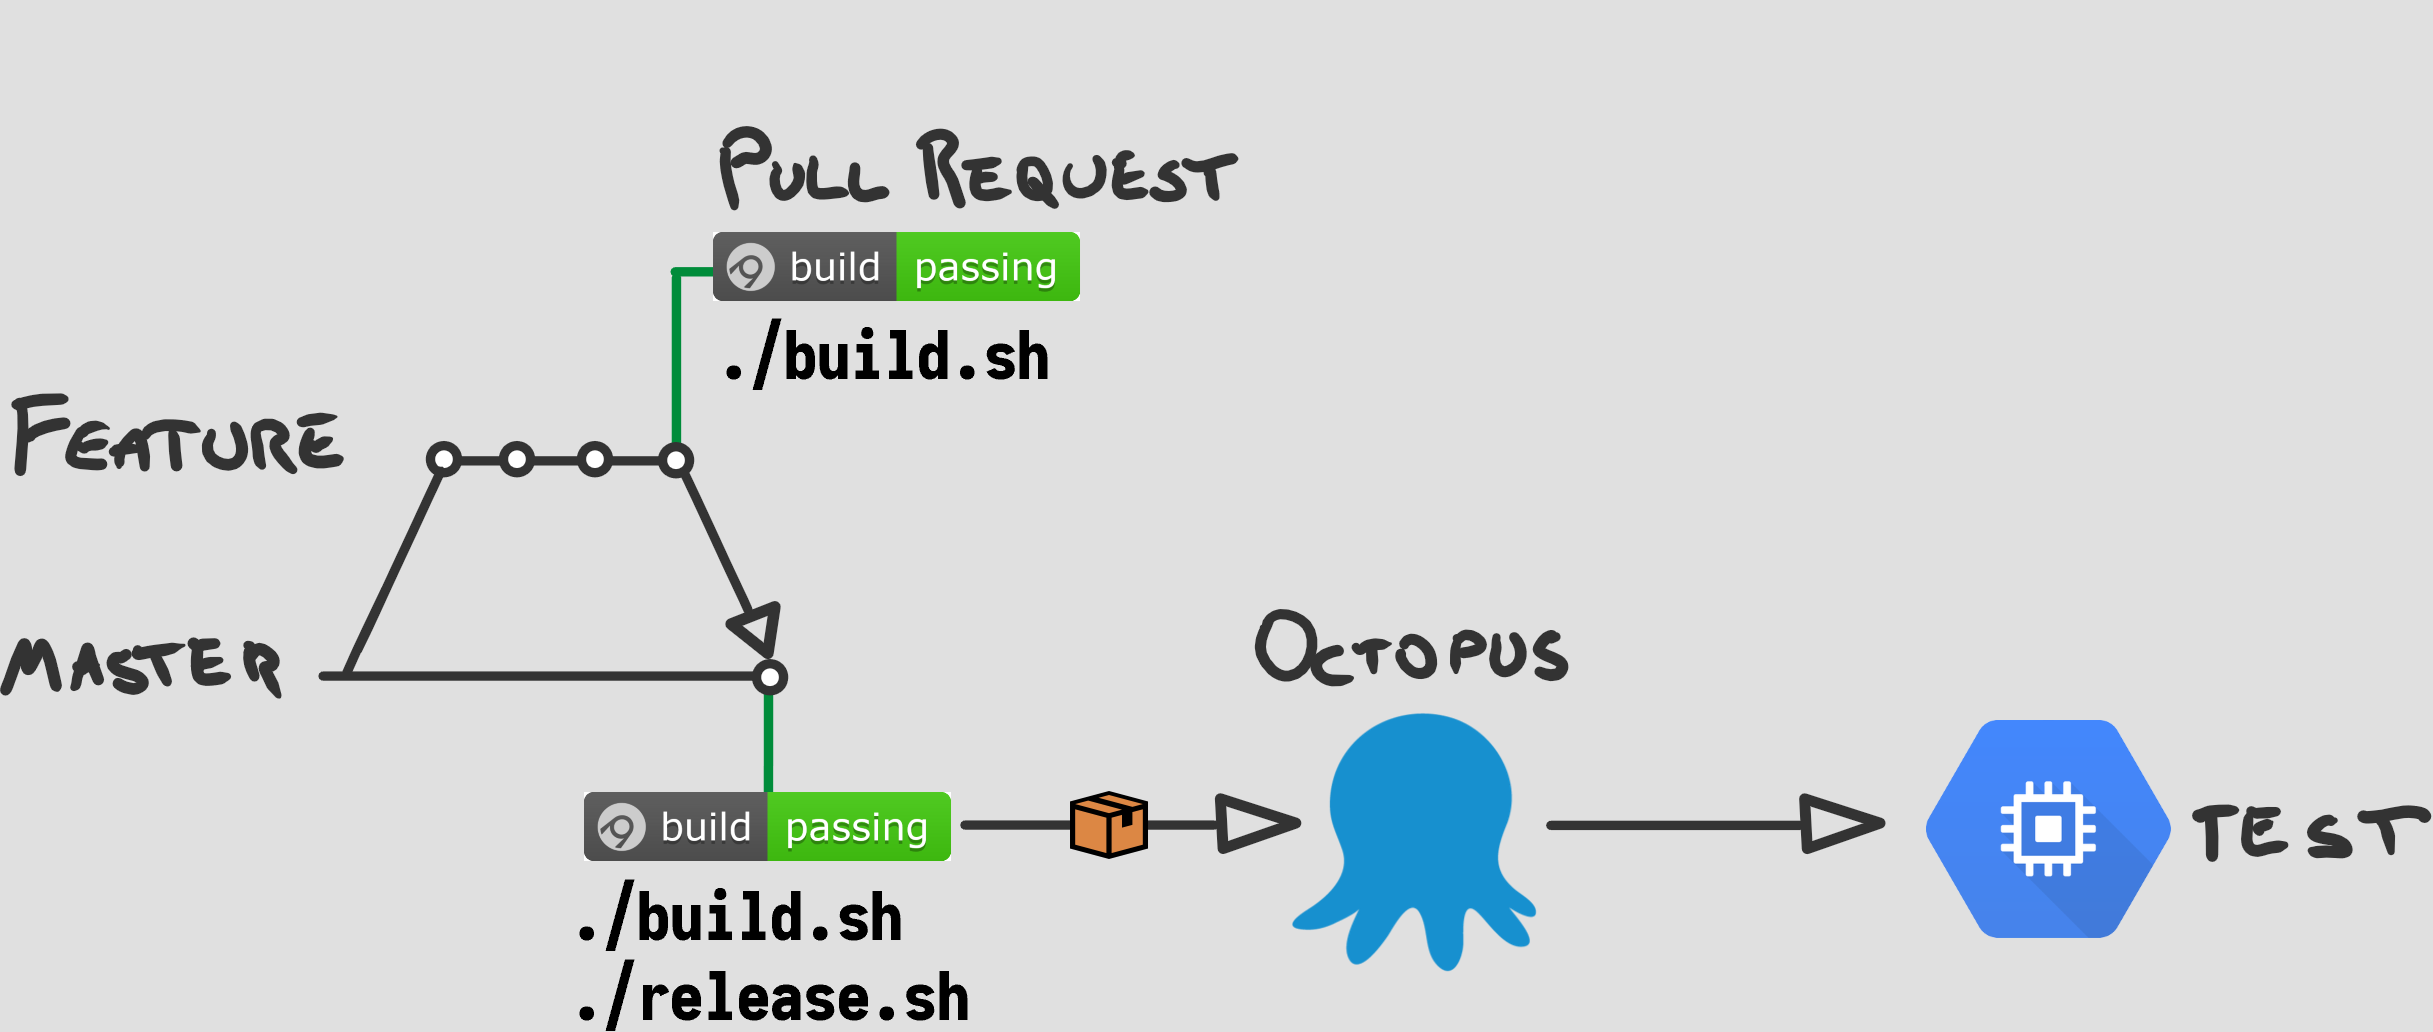
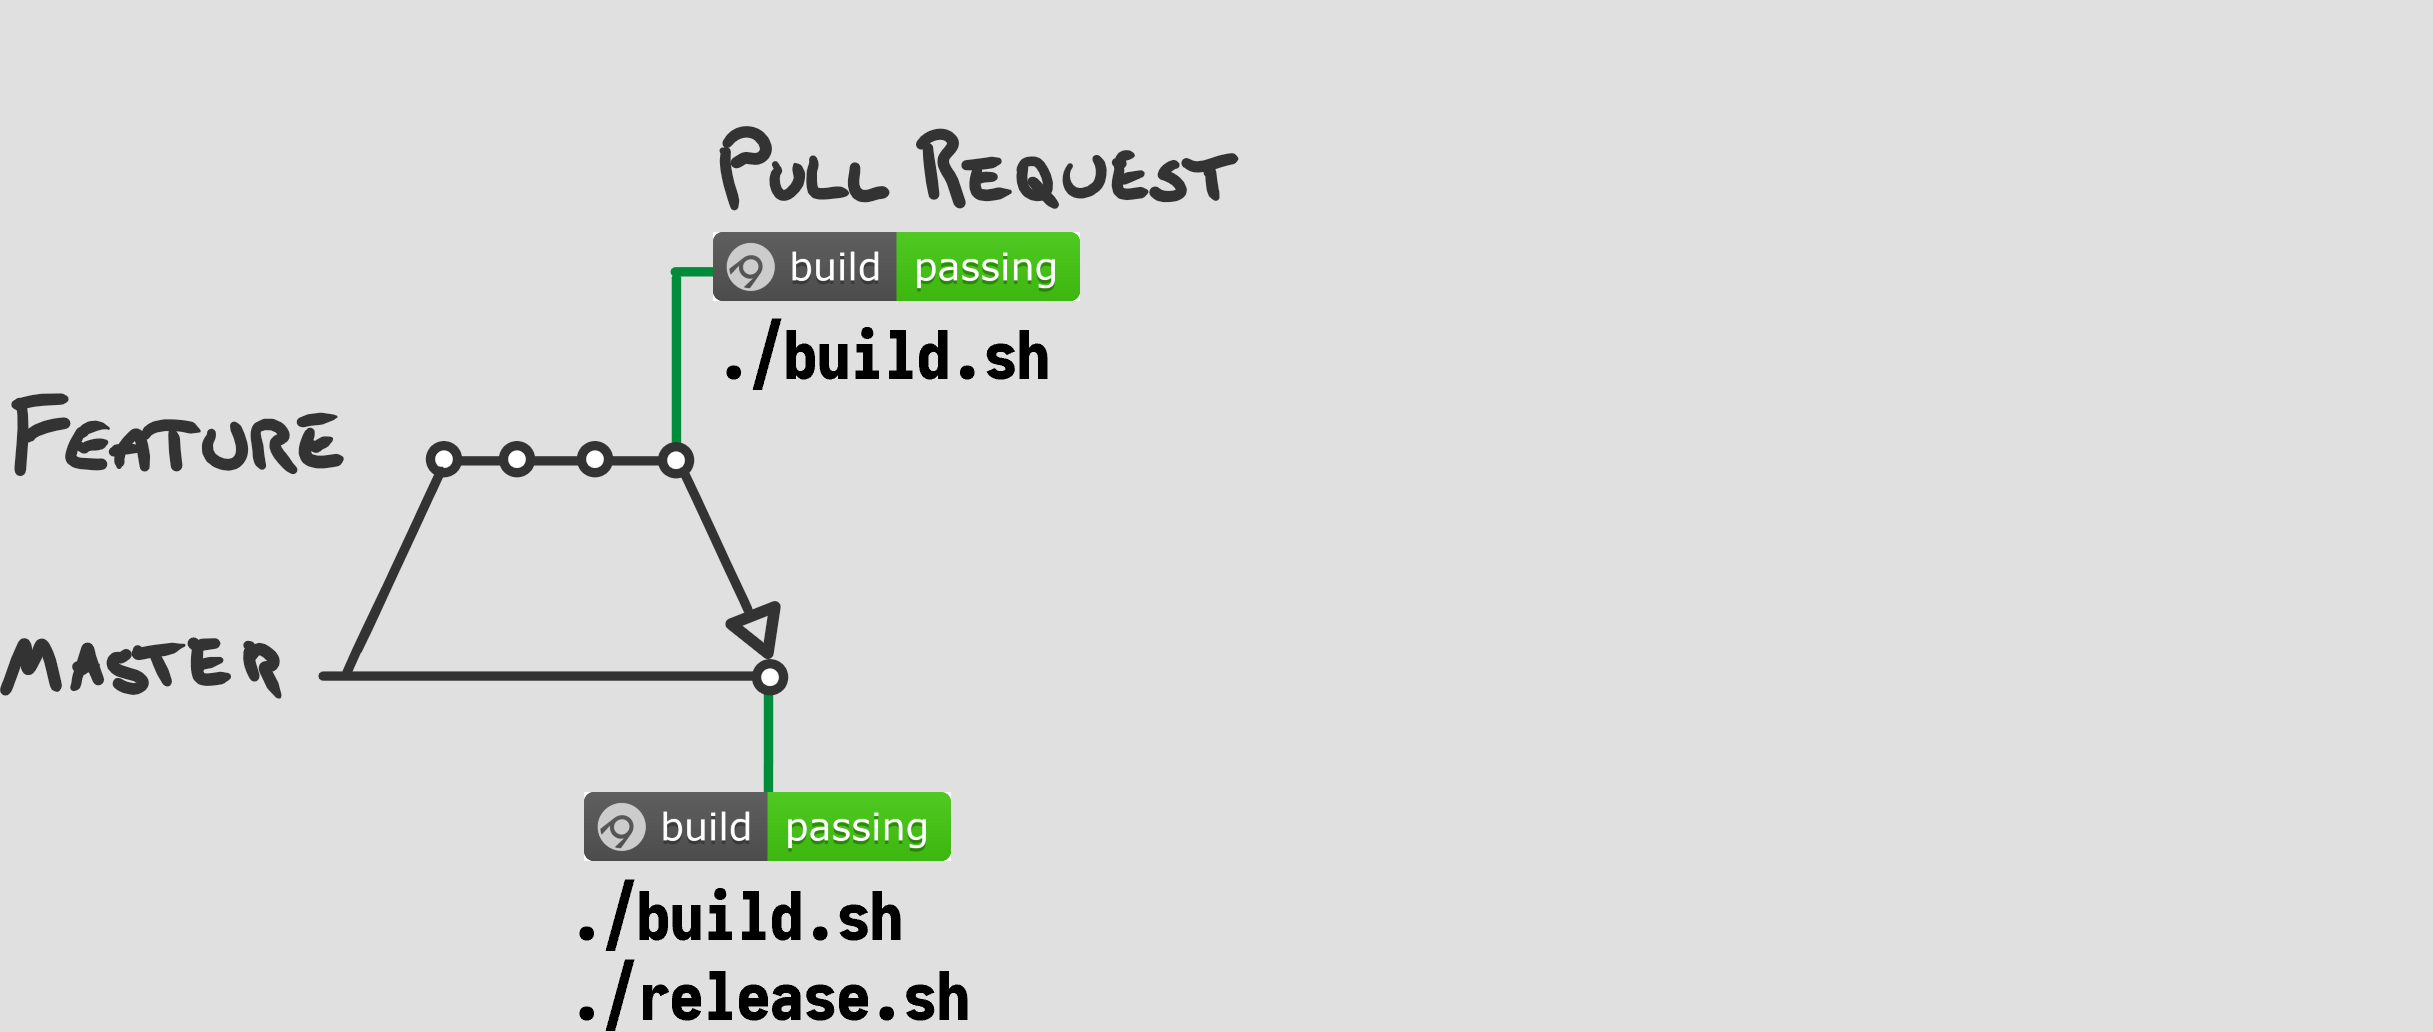
12factor: add split out slides more for release process

Changed region(s): [[0.3748, 0.6822, 0.9996, 0.9302], [0.4998, 0.5891, 0.656, 0.6822]]

diff --git a/twelve-factor/slides.md b/twelve-factor/slides.md
@@ -226,17 +226,52 @@ dotnet pack \
   --no-restore \
   --output ../../.build
 ```
+Note:
+* we deploy with octopus, so generate a nuget for apps
+* you could create a docker container
+* bake an ami with packer etc.
 
 
 
 ![build release deploy pipeline](img/build-release-deploy-2-publish.png) <!-- .element: class="no-border" -->
 <!-- .slide: data-transition="slide-in none-out" -->
+Note:
+* pr accepted
+* runs build.sh and release.sh
 
 
 
-![build release deploy pipeline](img/build-release-deploy-3-deploy.png) <!-- .element: class="no-border" -->
+```bash
+APIKEY="$1"
+find .build -iname "*.nupkg" -type f -exec .tools/octo/octo.exe push \
+  --package "{}" \
+  --server https://octopus.internal.net \
+  --apiKey $APIKEY \
+  \;
+```
+
+```bash
+CONTAINER=$(docker images | grep myapp | grep latest | awk '{print $3}')
+
+docker tag $CONTAINER docker.internal.net/myapp
+docker push docker.internal.net/myapp
+```
+<!-- .element: class="fragment" -->
+
+
+
+![build release deploy pipeline](img/build-release-deploy-3-octopus.png) <!-- .element: class="no-border" -->
+<!-- .slide: data-transition="none-in none-out" -->
+
+
+
+![build release deploy pipeline](img/build-release-deploy-4-test.png) <!-- .element: class="no-border" -->
+<!-- .slide: data-transition="none-in none-out" -->
+
+
+
+![build release deploy pipeline](img/build-release-deploy-5-prod.png) <!-- .element: class="no-border" -->
 <!-- .slide: data-transition="none-in slide-out" -->
-
 
 
 
